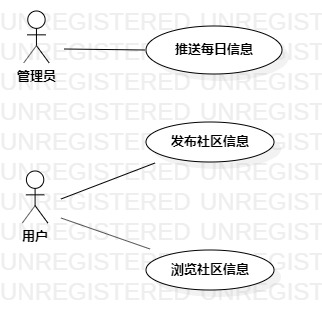
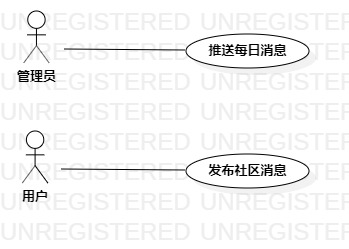
修改用例图和规约1.0

diff --git a/students/1709081602513/lab2.md b/students/1709081602513/lab2.md
@@ -15,7 +15,7 @@
 3.用git操作提交本次实验
 
 ## 三、实验步骤
-1.确立系统的功能(UseCase)
+ 1.确立系统的功能(UseCase)
  - 每日推送
  - 发布社区信息
  - 查看社区信息
@@ -24,8 +24,43 @@
  确立系统的扮演者（Actor）
  - 用户
  - 管理员
+
  3.建立之间的联系（Association）
+
+ 4.编写用例规约
 
 ## 四、实验结果
 
  ![用例图](./UseCaseDiagram_lab2.jpg)
+
+## 表1: 推送每日信息用例规约
+
+用例编号  | UC01 | 备注  
+-|:-|-  
+用例名称  | 推送每日信息  |  
+前置条件  | 管理员登入系统  | *可选*  
+后置条件  |   | *可选*  
+基本流程  | 1. 系统进入每日推送界面  |  
+~| 2. 管理员在文本框输入推送内容  |  
+~| 3. 管理员点击推送按钮  |  
+~| 4. 系统检查推送内容符合规范 |   
+~| 6. 系统向所有用户发送信息，显示“推送成功”  | 
+扩展流程  | 4.1 信息输入不合规范，系统提示发布失败  | *用例执行失败*  
+
+## 表2: 发布社区信息用例规范
+
+用例编号  | UC02 | 备注  
+-|:-|-  
+用例名称  | 发布社区信息  |  
+前置条件  | 用户登入系统并获取到地址信息  | *可选*  
+后置条件  |   | *可选*  
+基本流程  | 1. 用户点击发布消息按钮  |  
+~| 2. 系统进入消息编辑页面，获取用户地址信息  |  
+~| 3. 用户在第一个文本框输入消息内容，在第二个文本框输入问题，在第三个文本框输入问题答案  |  
+~| 4. 用户点击发布按钮  |  
+~| 5. 系统检查发布内容符合规范  | 
+~| 6. 系统保存用户编辑的信息和地址信息，显示“发布成功”  | 
+扩展流程  | 4.1 信息输入不合规范，系统提示“输入错误”  | *用例执行失败* 
+~| 5.1 用户消息内容含敏感词汇，系统提示“含敏感词汇，发布失败”  | *用例执行失败* 
+
+
